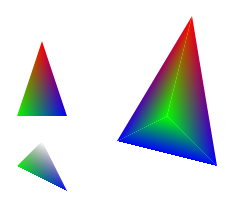
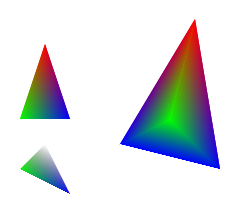
Showing image with 'aliasing' tip

diff --git a/canvasTriangleGradient.html b/canvasTriangleGradient.html
@@ -23,7 +23,7 @@
                 style="display: block; height: 300px; width: 300px;"></canvas>
 		<script>
             const trPosition = function (x, y) { this.x = x; this.y = y; }
-            const trDraw = function (ctx, p0, p1, p2, c0, c1, c2) {
+            const trDraw = function (ctx, p0, p1, p2, c0, c1, c2, aliasing) {
 
                 // Set resolution
                 var resolution = 500,   // Multiple of 100
@@ -122,7 +122,12 @@
                 // Draw texture to destination
                 ctx.save();
                 ctx.transform(a, b, c, d, e, f);
-                ctx.drawImage(texCanvas, 0, 0);
+                if (!aliasing) {
+                    ctx.drawImage(texCanvas, 0, 0);
+                } else {
+                    ctx.drawImage(texCanvas, +0.5, +0.5);
+                    ctx.drawImage(texCanvas, -0.5, -0.5);
+                }
                 ctx.restore();
 
                 // Remove:
@@ -135,27 +140,28 @@
             var p0 = new trPosition(50, 50);
             var p1 = new trPosition(25, 125);
             var p2 = new trPosition(75, 125);
-            var tr0 = trDraw(ctx, p0, p1, p2, [255, 0, 0, 1], [0, 255, 0, 1], [0, 0, 255, 1]);
+            var tr0 = trDraw(ctx, p0, p1, p2, [255, 0, 0, 1], [0, 255, 0, 1], [0, 0, 255, 1], true);
 
             var p3 = new trPosition(200, 25);
             var p4 = new trPosition(175, 125);
             var p5 = new trPosition(125, 150);
-            var tr1 = trDraw(ctx, p3, p4, p5, [255, 0, 0, 1], [0, 255, 0, 1], [0, 0, 255, 1]);
+            var tr1 = trDraw(ctx, p3, p4, p5, [255, 0, 0, 1], [0, 255, 0, 1], [0, 0, 255, 1], true);
 
             var p6 = new trPosition(200, 25);
             var p7 = new trPosition(175, 125);
             var p8 = new trPosition(225, 175);
-            var tr2 = trDraw(ctx, p6, p7, p8, [255, 0, 0, 1], [0, 255, 0, 1], [0, 0, 255, 1]);
+            var tr2 = trDraw(ctx, p6, p7, p8, [255, 0, 0, 1], [0, 255, 0, 1], [0, 0, 255, 1], true);
 
             var p9 = new trPosition(175, 125);
             var p10 = new trPosition(125, 150);
             var p11 = new trPosition(225, 175);
-            var tr3 = trDraw(ctx, p9, p10, p11, [0, 255, 0, 1], [0, 0, 255, 1], [0, 0, 255, 1]);
+            var tr3 = trDraw(ctx, p9, p10, p11, [0, 255, 0, 1], [0, 0, 255, 1], [0, 0, 255, 1], true);
 
+            // Aliasing 'tip' won't work with transparency
             var p12 = new trPosition(50, 150);
             var p13 = new trPosition(25, 175);
             var p14 = new trPosition(75, 200);
-            var tr4 = trDraw(ctx, p12, p13, p14, [0, 0, 0, 0], [0, 255, 0, 1], [0, 0, 255, 1]);
+            var tr4 = trDraw(ctx, p12, p13, p14, [0, 0, 0, 0], [0, 255, 0, 1], [0, 0, 255, 1], false);
 		</script>
 	</body>
 </html>
